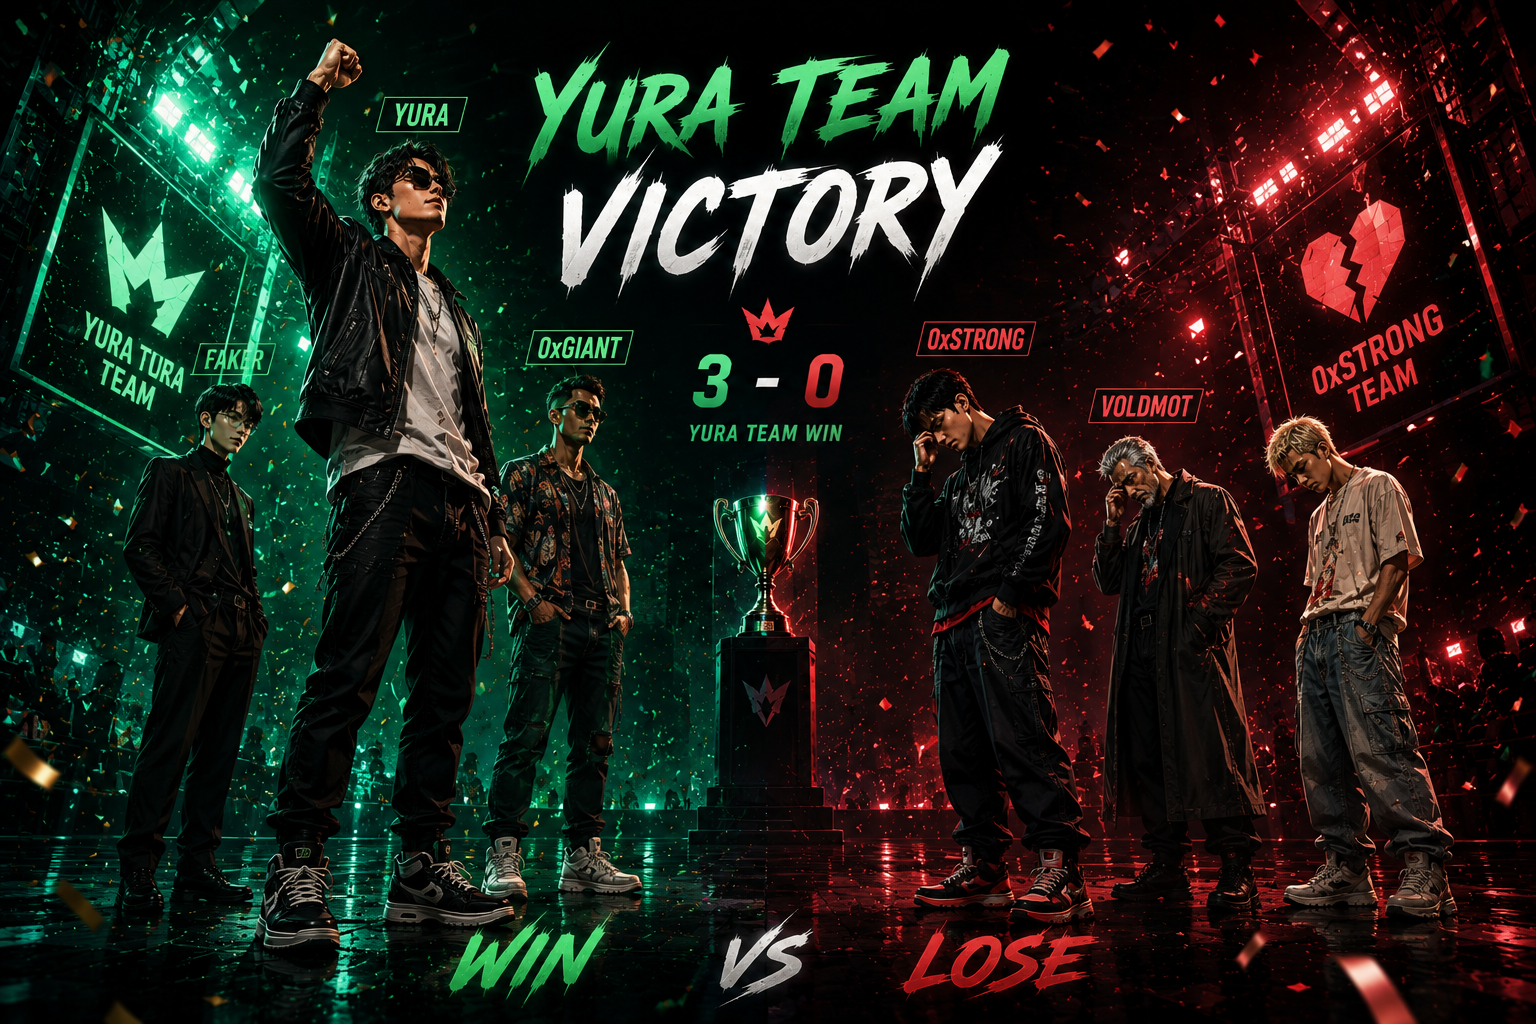
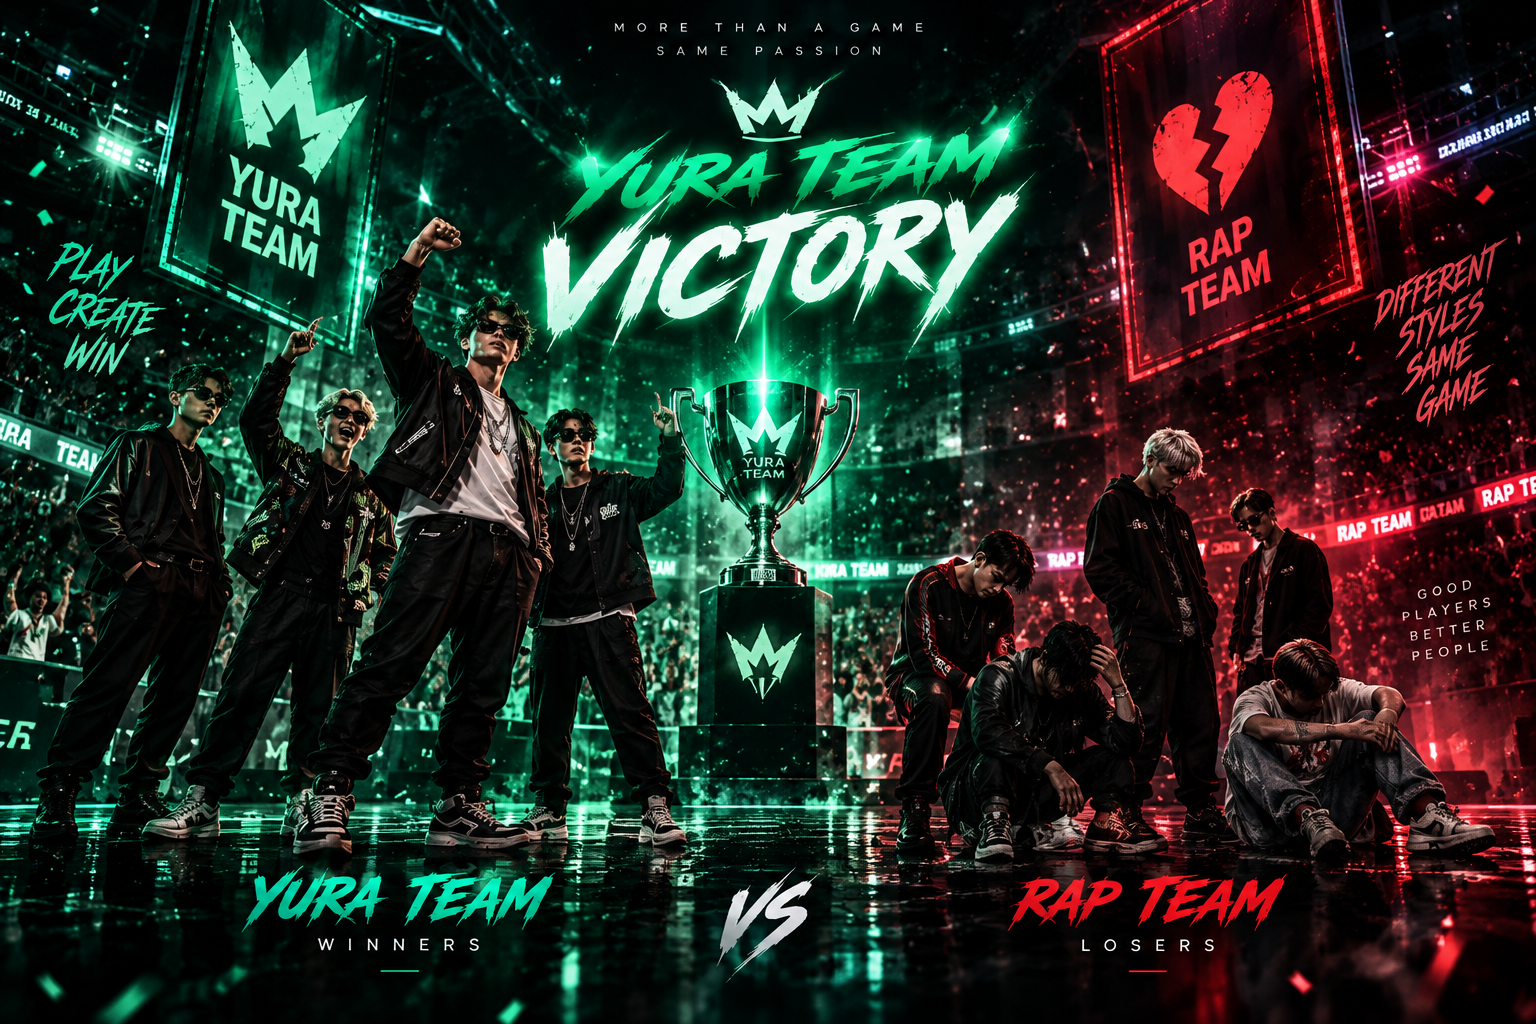
added one member

diff --git a/src/features/rank/components/TotalRank.js b/src/features/rank/components/TotalRank.js
@@ -77,12 +77,12 @@ function TotalRank(){
         Yura: "/Yura.png",
         Faker: "/Faker.png",
         "0xGiant": "/0xGiant.png",
-        "0xStrong": "/0xStrong.png",
         Voldmot: "/Voldmot.png",
-        Rape: "/Rape.png"
+        Rape: "/Rape.png",
+        "Myron D Porter": "/Myron D Porter.png"
     }
 
-    const bossUsers = ["Yura", "0xStrong"]
+    const bossUsers = ["Yura", "Rape"]
 
     const calculateScore = (item) => {
 
@@ -348,40 +348,40 @@ function TotalRank(){
                         weeklyScoreMap[weekKey] = {
                             sunday: sundayDay,
                             yuraScore: 0,
-                            strongScore: 0
+                            rapeScore: 0
                         }
                     }
 
                     weeklyScoreMap[weekKey].yuraScore += teamAScore
-                    weeklyScoreMap[weekKey].strongScore += teamBScore
+                    weeklyScoreMap[weekKey].rapeScore += teamBScore
                 }
             }
             if (reportsOfDay.length === 0 || (teamAScore === 0 && teamBScore === 0)) {
                 monthlyHistory[day] = {
                     winner: "none",
                     yuraScore: 0,
-                    strongScore: 0,
+                    rapeScore: 0,
                     type: "daily"
                 }
             } else if (teamAScore > teamBScore) {
                 monthlyHistory[day] = {
                     winner: "Yura",
                     yuraScore: teamAScore,
-                    strongScore: teamBScore,
+                    rapeScore: teamBScore,
                     type: "daily"
                 }
             } else if (teamBScore > teamAScore) {
                 monthlyHistory[day] = {
-                    winner: "0xStrong",
+                    winner: "Rape",
                     yuraScore: teamAScore,
-                    strongScore: teamBScore,
+                    rapeScore: teamBScore,
                     type: "daily"
                 }
             } else {
                 monthlyHistory[day] = {
                     winner: "draw",
                     yuraScore: teamAScore,
-                    strongScore: teamBScore,
+                    rapeScore: teamBScore,
                     type: "daily"
                 }
             }
@@ -390,32 +390,32 @@ function TotalRank(){
 
             if (!week.sunday) return
 
-            if (week.yuraScore === 0 && week.strongScore === 0) {
+            if (week.yuraScore === 0 && week.rapeScore === 0) {
                 monthlyHistory[week.sunday] = {
                     winner: "none",
                     yuraScore: 0,
-                    strongScore: 0,
+                    rapeScore: 0,
                     type: "weekly"
                 }
-            } else if (week.yuraScore > week.strongScore) {
+            } else if (week.yuraScore > week.rapeScore) {
                 monthlyHistory[week.sunday] = {
                     winner: "Yura",
                     yuraScore: week.yuraScore,
-                    strongScore: week.strongScore,
+                    rapeScore: week.rapeScore,
                     type: "weekly"
                 }
-            } else if (week.strongScore > week.yuraScore) {
+            } else if (week.rapeScore > week.yuraScore) {
                 monthlyHistory[week.sunday] = {
-                    winner: "0xStrong",
+                    winner: "Rape",
                     yuraScore: week.yuraScore,
-                    strongScore: week.strongScore,
+                    rapeScore: week.rapeScore,
                     type: "weekly"
                 }
             } else {
                 monthlyHistory[week.sunday] = {
                     winner: "draw",
                     yuraScore: week.yuraScore,
-                    strongScore: week.strongScore,
+                    rapeScore: week.rapeScore,
                     type: "weekly"
                 }
             }
@@ -440,9 +440,9 @@ function TotalRank(){
     ]
 
     const teamB = [
-        "0xStrong",
+        "Rape",
         "Voldmot",
-        "Rape"
+        "Myron D Porter"
     ]
 
     const teamAUsers = rankData.filter(user =>
@@ -487,13 +487,13 @@ function TotalRank(){
             ? null
             : teamAScore > teamBScore
                 ? "Yura"
-                : "0xStrong"
+                : "Rape"
 
     const loserBoss =
         isDrawOrNoData
             ? null
             : teamAScore > teamBScore
-                ? "0xStrong"
+                ? "Rape"
                 : "Yura"
 
     winnerTeam.sort((a, b) => {
@@ -571,8 +571,8 @@ function TotalRank(){
                     src={
                         winnerBoss === "Yura"
                             ? "/Yura_win.png"
-                            : winnerBoss === "0xStrong"
-                                ? "/0xStrong_win.png"
+                            : winnerBoss === "Rape"
+                                ? "/Rape_win.png"
                                 : "/draw.png"
                     }
                     alt="Team Battle"

diff --git a/src/features/rank/components/MonthlyTeamBattle.js b/src/features/rank/components/MonthlyTeamBattle.js
@@ -49,9 +49,9 @@ function MonthlyTeamBattle({
             battle?.type !== "weekly"
     ).length
 
-    const strongWins = Object.values(battleHistory).filter(
+    const rapeWins = Object.values(battleHistory).filter(
         (battle) =>
-            getWinner(battle) === "0xStrong" &&
+            getWinner(battle) === "Rape" &&
             battle?.type !== "weekly"
     ).length
 
@@ -153,7 +153,7 @@ function MonthlyTeamBattle({
                                                 {battle?.type === "weekly" ? "🏆" : "👑"}
                                             </span>
                                         )}
-                                        {winner === "0xStrong" && (
+                                        {winner === "Rape" && (
                                             <span
                                                 className="
                                                     inline-flex
@@ -215,12 +215,12 @@ function MonthlyTeamBattle({
 
                                                 <div className="flex justify-between mt-1">
                                                     <span className="text-pink-300">
-                                                        0xStrong
+                                                        Rape
                                                     </span>
 
                                                     <span className="font-bold">
                                                         {Number(
-                                                            battle.strongScore
+                                                            battle.rapeScore
                                                         ).toFixed(2)}
                                                     </span>
                                                 </div>
@@ -242,7 +242,7 @@ function MonthlyTeamBattle({
 
                         <tr>
                             <td className="w-28 font-bold text-error text-xs text-left">
-                                0xStrong Team
+                                Rape Team
                             </td>
 
                             {days.map((day) => {
@@ -256,7 +256,7 @@ function MonthlyTeamBattle({
                                         onMouseEnter={() =>
                                             setHoveredBattle({
                                                 day,
-                                                team: "0xStrong",
+                                                team: "Rape",
                                                 battle
                                             })
                                         }
@@ -264,7 +264,7 @@ function MonthlyTeamBattle({
                                             setHoveredBattle(null)
                                         }
                                     >
-                                        {winner === "0xStrong" && (
+                                        {winner === "Rape" && (
                                             <span
                                                 className="
                                                     inline-flex
@@ -291,7 +291,7 @@ function MonthlyTeamBattle({
                                             </span>
                                         )}
                                         {hoveredBattle?.day === day &&
-                                            hoveredBattle?.team === "0xStrong" &&
+                                            hoveredBattle?.team === "Rape" &&
                                             battle && (
                                             <div
                                                 className="
@@ -339,12 +339,12 @@ function MonthlyTeamBattle({
 
                                                 <div className="flex justify-between mt-1">
                                                     <span className="text-pink-300">
-                                                        0xStrong
+                                                        Rape
                                                     </span>
 
                                                     <span className="font-bold">
                                                         {Number(
-                                                            battle.strongScore
+                                                            battle.rapeScore
                                                         ).toFixed(2)}
                                                     </span>
                                                 </div>
@@ -360,7 +360,7 @@ function MonthlyTeamBattle({
                             })}
 
                             <td className="w-12 font-bold text-success text-sm">
-                                {strongWins}
+                                {rapeWins}
                             </td>
                         </tr>
                     </tbody>

diff --git a/src/features/rank/components/IndividualRankTable.js b/src/features/rank/components/IndividualRankTable.js
@@ -181,7 +181,7 @@ function IndividualRankTable({
 
                     <thead className="bg-base-300/40">
                         <tr>
-                            <th className="w-40 py-3 text-sm">User</th>
+                            <th className="w-52 py-3 text-sm">User</th>
 
                             {days.map((day) => {
                                 const disabled = isFutureDay(day)
@@ -250,7 +250,7 @@ function IndividualRankTable({
                                             />
 
                                             <div className="text-left">
-                                                <div className="font-extrabold text-base">
+                                                <div className="font-extrabold text-base whitespace-nowrap">
                                                     {user.name}
                                                 </div>
 

diff --git a/src/features/rank/components/IndividualRank.js b/src/features/rank/components/IndividualRank.js
@@ -34,9 +34,9 @@ function IndividualRank() {
         Yura: "/Yura.png",
         Faker: "/Faker.png",
         "0xGiant": "/0xGiant.png",
-        "0xStrong": "/0xStrong.png",
         Voldmot: "/Voldmot.png",
-        Rape: "/Rape.png"
+        Rape: "/Rape.png",
+        "Myron D Porter": "/Myron D Porter.png"
     }
 
     const calculateMetricScore = (item, metric) => {
@@ -186,11 +186,11 @@ function IndividualRank() {
 
             })
             const fixedUserOrder = [
-                "0xStrong",
+                "Rape",
                 "Yura",
                 "Voldmot",
                 "Faker",
-                "Rape",
+                "Myron D Porter",
                 "0xGiant",
             ]
 

diff --git a/src/features/dailyReport/components/ReportTable.js b/src/features/dailyReport/components/ReportTable.js
@@ -213,7 +213,7 @@ function ReportTable({
 
                                 <td>
                                     <input
-                                        className="input input-sm input-bordered w-28"
+                                        className="input input-sm input-bordered w-12"
                                         value={report.note}
                                         onChange={(e) => handleChange(report.userId, "note", e.target.value)}
                                         disabled={!canEdit}
